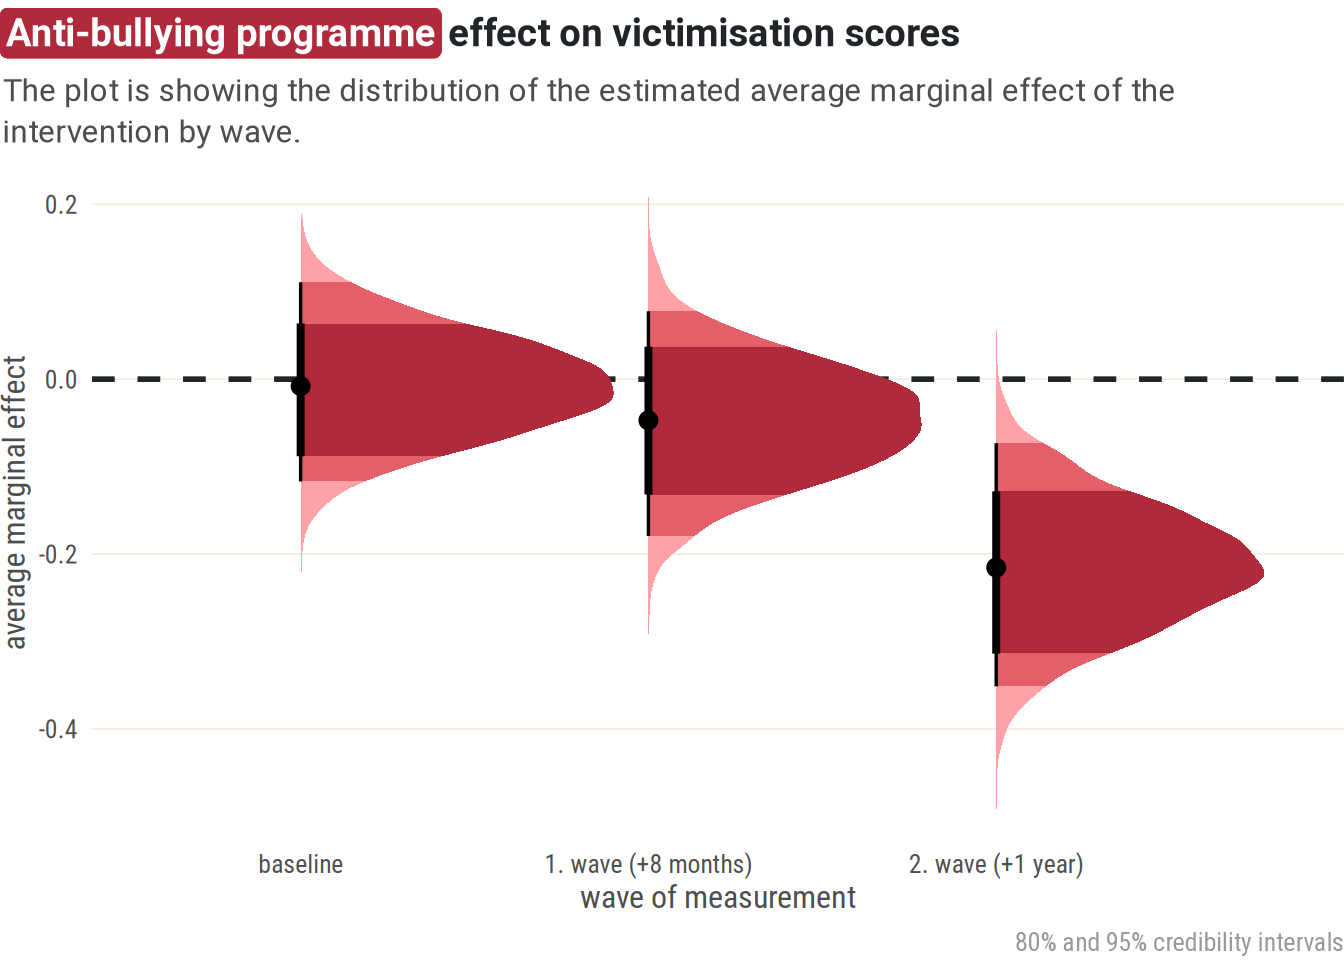
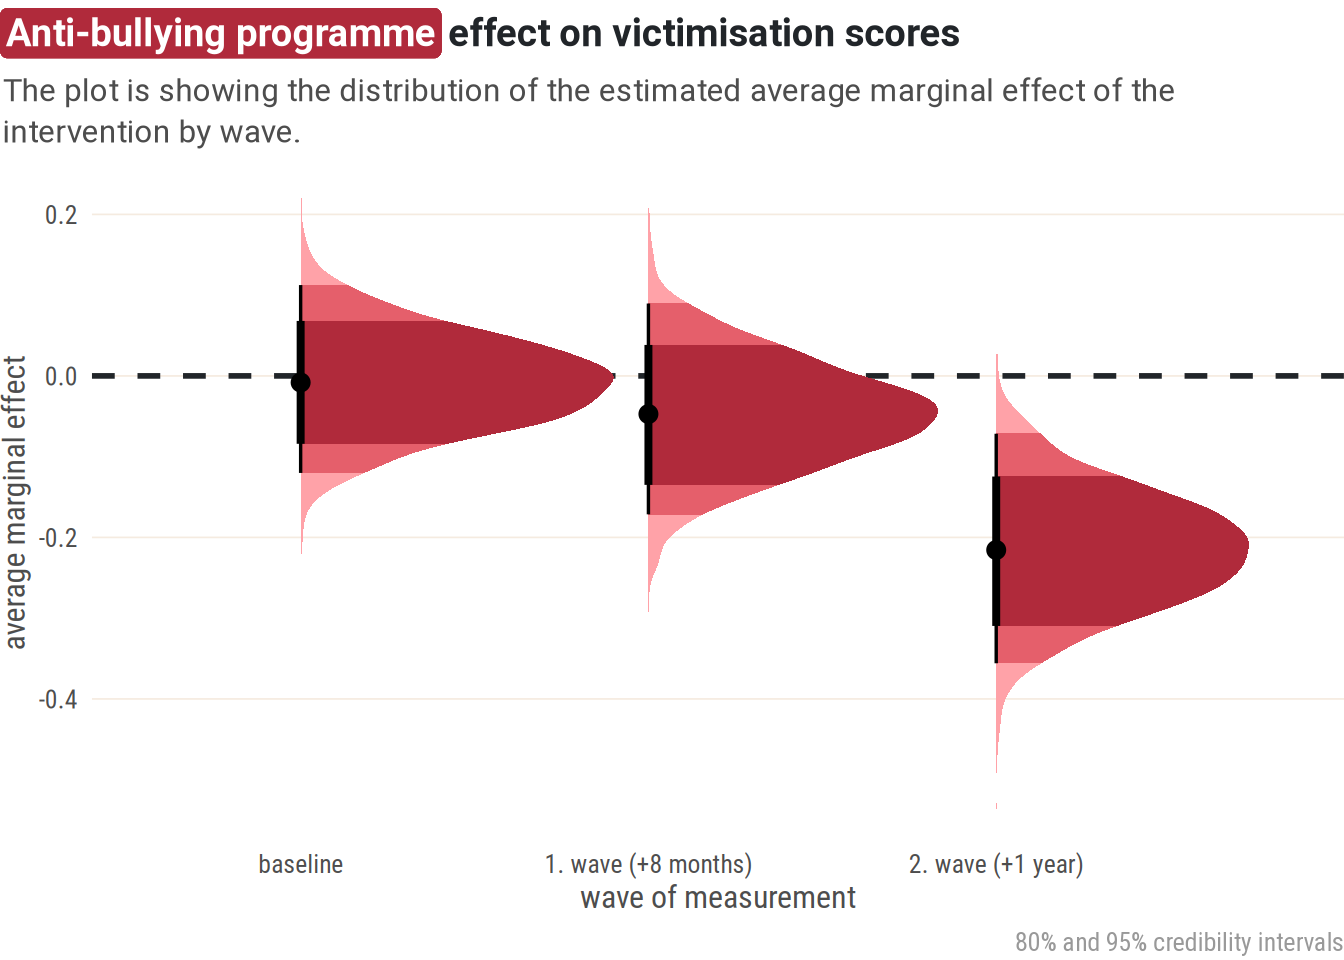
Built site for gh-pages

diff --git a/analysis.html b/analysis.html
@@ -286,13 +286,13 @@ p {
 <tr class="even">
 <td style="text-align: left;">1. wave (+8 months)</td>
 <td style="text-align: right;">-0.05</td>
-<td style="text-align: right;">-0.18</td>
-<td style="text-align: right;">0.08</td>
+<td style="text-align: right;">-0.17</td>
+<td style="text-align: right;">0.09</td>
 </tr>
 <tr class="odd">
 <td style="text-align: left;">2. wave (+20 months)</td>
 <td style="text-align: right;">-0.22</td>
-<td style="text-align: right;">-0.35</td>
+<td style="text-align: right;">-0.36</td>
 <td style="text-align: right;">-0.07</td>
 </tr>
 </tbody><tfoot>
